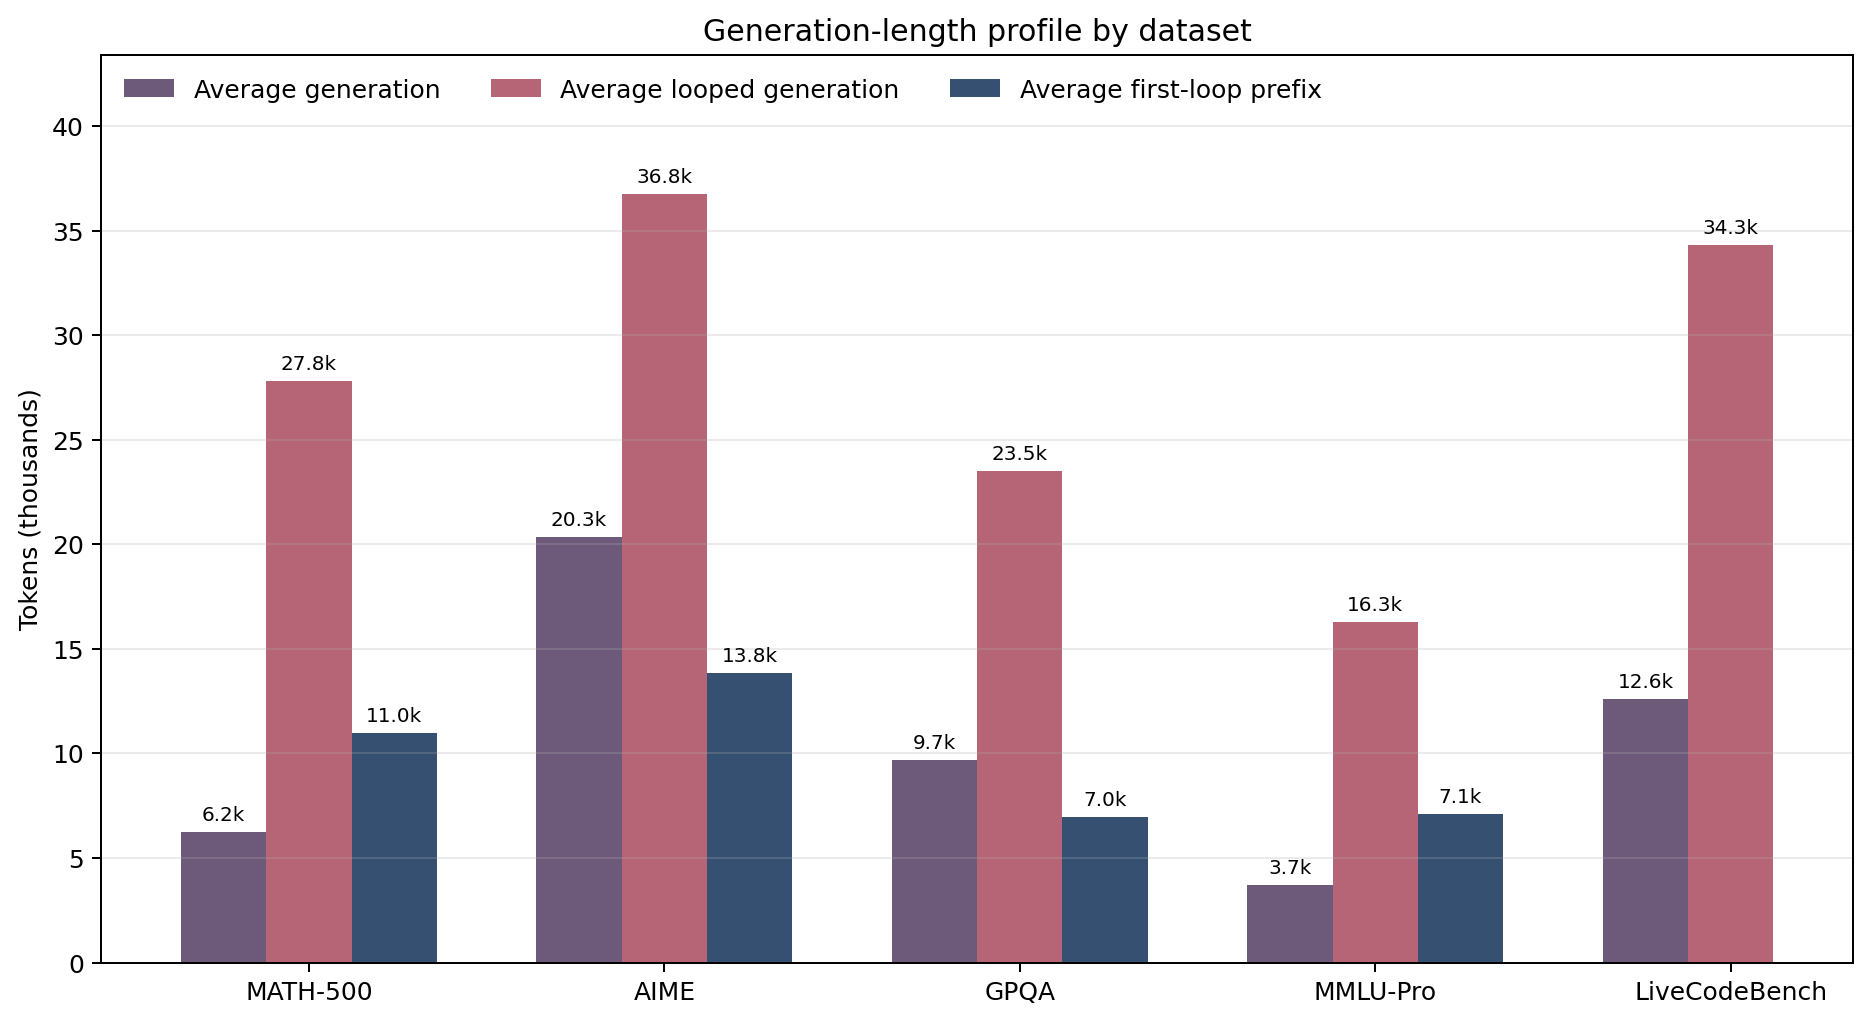
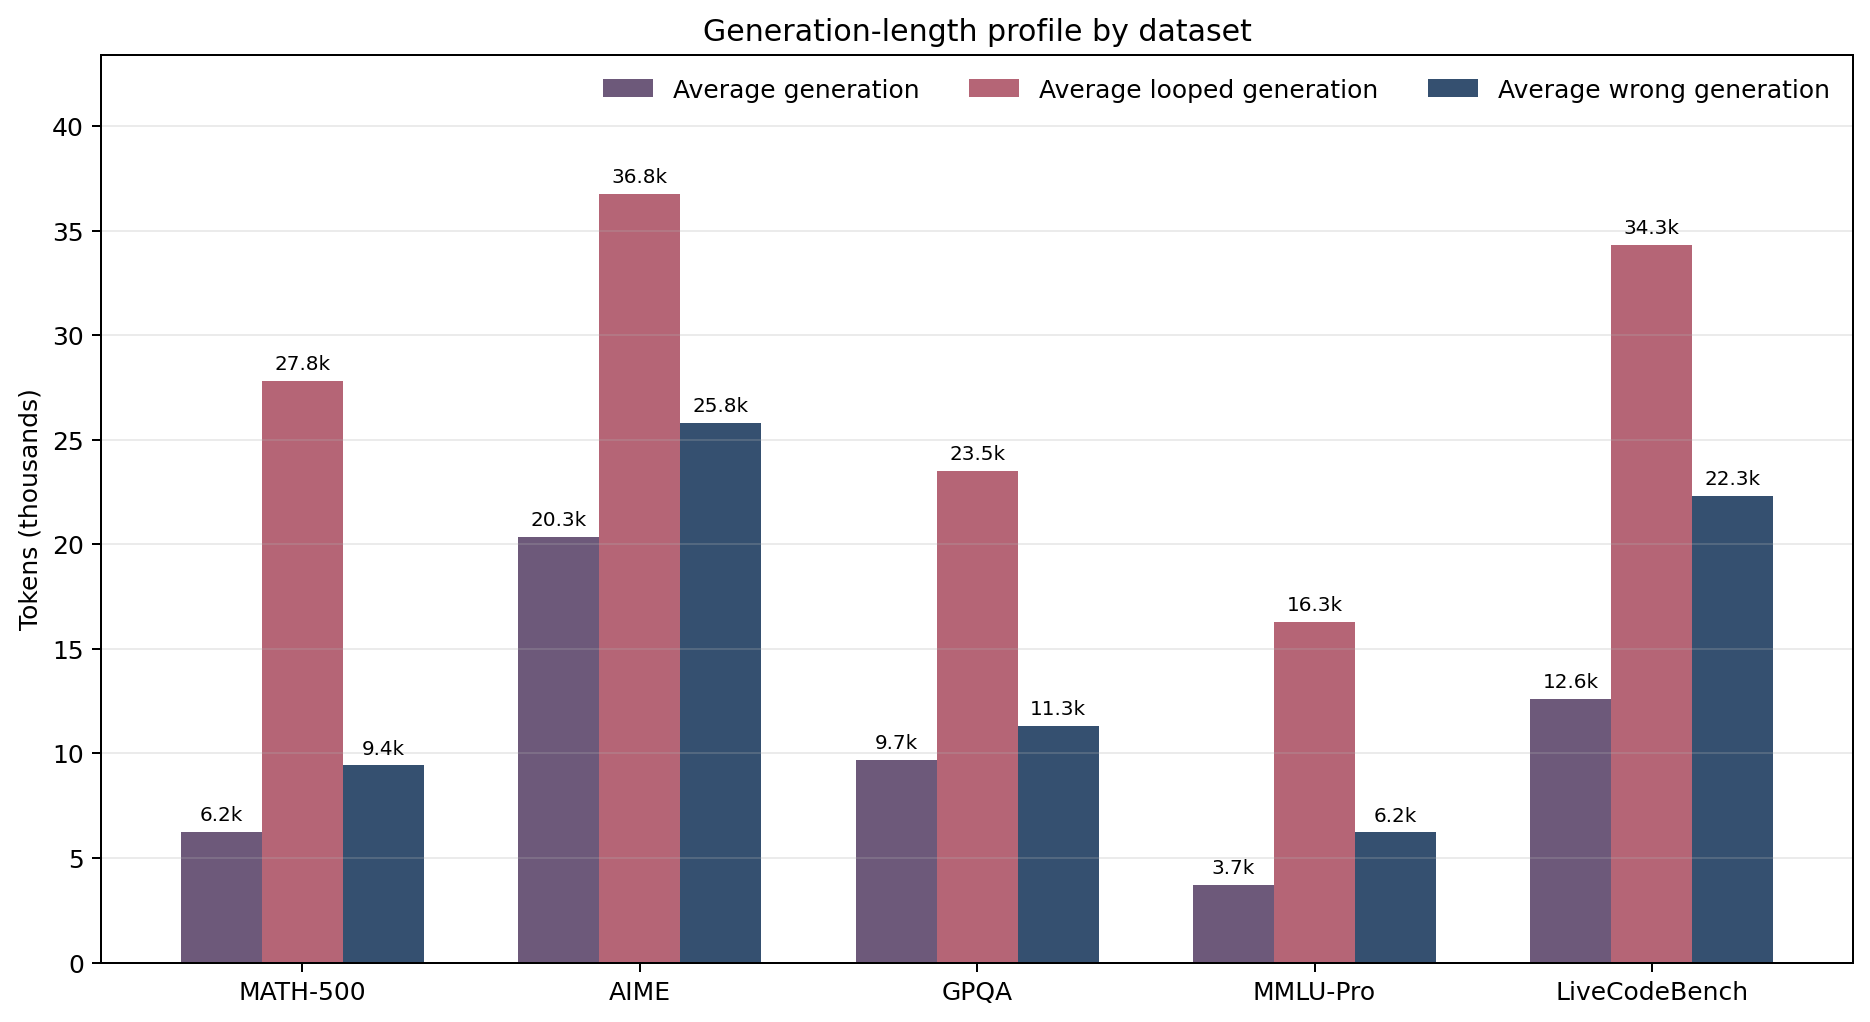
Adjust rollout report length panel

diff --git a/scripts/build_cross_dataset_rollout_report.py b/scripts/build_cross_dataset_rollout_report.py
@@ -586,19 +586,19 @@ def build_length_plot(rows: list[dict[str, Any]], figures_dir: Path) -> Path:
     width = 0.24
     avg_len = [_nan_or_float(row["avg_generation_length"]) / 1000.0 for row in rows]
     avg_loop_len = [_nan_or_float(row["avg_loop_generation_length"]) / 1000.0 for row in rows]
-    avg_prefix = [_nan_or_float(row["avg_first_loop_prefix_length"]) / 1000.0 for row in rows]
+    avg_wrong_len = [_nan_or_float(row["avg_wrong_generation_length"]) / 1000.0 for row in rows]
 
     fig, ax = plt.subplots(figsize=(10.5, 5.8))
     bars1 = ax.bar([i - width for i in x], avg_len, width=width, label="Average generation", color="#6d597a")
     bars2 = ax.bar(x, avg_loop_len, width=width, label="Average looped generation", color="#b56576")
-    bars3 = ax.bar([i + width for i in x], avg_prefix, width=width, label="Average first-loop prefix", color="#355070")
+    bars3 = ax.bar([i + width for i in x], avg_wrong_len, width=width, label="Average wrong generation", color="#355070")
     _annotate_bars(ax, bars1, "k")
     _annotate_bars(ax, bars2, "k")
     _annotate_bars(ax, bars3, "k")
     ax.set_ylabel("Tokens (thousands)")
     ax.set_title("Generation-length profile by dataset")
     ax.set_xticks(x, labels)
-    ax.set_ylim(0, _finite_max(avg_len, avg_loop_len, avg_prefix) * 1.18)
+    ax.set_ylim(0, _finite_max(avg_len, avg_loop_len, avg_wrong_len) * 1.18)
     ax.legend(frameon=False, ncol=3)
     ax.grid(axis="y", alpha=0.25)
     fig.tight_layout()
@@ -768,6 +768,14 @@ def build_key_findings(rows: list[dict[str, Any]]) -> str:
             else row["avg_loop_generation_length"]
         ),
     )
+    longest_wrong = max(
+        rows,
+        key=lambda row: (
+            float("-inf")
+            if row["avg_wrong_generation_length"] is None
+            else row["avg_wrong_generation_length"]
+        ),
+    )
     tightest_overlap = max(
         rows,
         key=lambda row: (
@@ -794,20 +802,9 @@ def build_key_findings(rows: list[dict[str, Any]]) -> str:
             ),
             (
                 f"The longest looped generations also appear on {latex_escape(longest_loop['display_name'])}: "
-                f"{format_float(longest_loop['avg_loop_generation_length'])} tokens on average."
-                + (
-                    " "
-                    + (
-                        f"The first detected loop appears after "
-                        f"{format_float(longest_loop['avg_first_loop_prefix_length'])} tokens on average."
-                    )
-                    if longest_loop["avg_first_loop_prefix_length"] is not None
-                    else (
-                        " The exact average first-loop-prefix length is unavailable in this "
-                        "bundle because that metric could not be recovered from the "
-                        "post-grading LiveCodeBench crash."
-                    )
-                )
+                f"{format_float(longest_loop['avg_loop_generation_length'])} tokens on average. "
+                f"The longest wrong generations appear on {latex_escape(longest_wrong['display_name'])} "
+                f"at {format_float(longest_wrong['avg_wrong_generation_length'])} tokens on average."
             ),
             (
                 f"Prompt-plus-generation max-length termination is almost synonymous with looping on the hardest long-form "
@@ -890,7 +887,7 @@ def build_tex(rows: list[dict[str, Any]], out_dir: Path, report_stem: str) -> Pa
 \setlength{{\parskip}}{{0.6em}}
 
 \title{{Cross-Dataset Rollout Statistics Report for Qwen/Qwen3-1.7B}}
-\author{{Murphy}}
+\author{{}}
 \date{{{latex_escape(bundle_timestamp(rows))}}}
 
 \begin{{document}}
@@ -962,13 +959,13 @@ The JSON payloads also retain the raw event counts for prompts, graded/generated
 \begin{{figure}}[H]
 \centering
 \includegraphics[width=\textwidth]{{{figures["lengths"]}}}
-\caption{{Average generation lengths, average looped-generation lengths, and average first-loop-prefix lengths in thousands of tokens.}}
+\caption{{Average generation lengths, average looped-generation lengths, and average wrong-generation lengths in thousands of tokens.}}
 \end{{figure}}
 
 \section*{{Interpretation}}
 Across the math, science, broad-knowledge, and coding settings, the same pattern repeats: long generation tails are where looping lives. The strongest evidence is in the overlap panel: once a rollout's prompt-plus-generation length reaches \texttt{{max\_model\_len}}, it is often also a detected loop. The converse is weaker but still substantial: in several datasets, a large fraction of looped rollouts also terminate at that full-context ceiling.
 
-The length panel shows that looped generations are substantially longer than the dataset-wide average everywhere in the bundle. The average first-loop-prefix length also varies meaningfully by dataset, which indicates that not every loop is an immediate degeneration: some settings enter the repeated n-gram regime only after a long reasoning or coding prefix.
+The length panel shows that both looped generations and wrong generations are substantially longer than the dataset-wide average everywhere in the bundle. In the harder reasoning and coding settings, wrong rollouts become long well before they are reliably correct, which is consistent with the overall loop-heavy tail behavior in this sweep.
 
 Rollout success under looping is dataset-dependent rather than uniform. Some tasks retain a noticeable fraction of correct answers even inside looped rollouts, which suggests the model can sometimes reach the right answer before it starts repeating. For \texttt{{LiveCodeBench}}, the native benchmark metrics should be read from the separate \texttt{{pass@k}} values rather than from the rollout-success column.
 

diff --git a/outputs/qwen3_1p7b_rollout_stats_v2_temp0p2_gen10/qwen3_1p7b_cross_dataset_rollout_report.tex b/outputs/qwen3_1p7b_rollout_stats_v2_temp0p2_gen10/qwen3_1p7b_cross_dataset_rollout_report.tex
@@ -13,7 +13,7 @@
 \setlength{\parskip}{0.6em}
 
 \title{Cross-Dataset Rollout Statistics Report for Qwen/Qwen3-1.7B}
-\author{Murphy}
+\author{}
 \date{2026-03-16 14:19 UTC}
 
 \begin{document}
@@ -117,7 +117,7 @@ LiveCodeBench release\_v6 & 800 & 8000 & 58.1\% & 15.0\% & 10.8\% \\
 
 \subsection*{Headline observations}
 The largest raw loop rate appears on GPQA Diamond at 16.4\%, while MATH-500 is the most stable dataset in this bundle at 2.9\%.
-The longest looped generations also appear on AIME 2024/2025: 36756.9 tokens on average. The first detected loop appears after 13824.5 tokens on average.
+The longest looped generations also appear on AIME 2024/2025: 36756.9 tokens on average. The longest wrong generations appear on AIME 2024/2025 at 25786.1 tokens on average.
 Prompt-plus-generation max-length termination is almost synonymous with looping on the hardest long-form settings: GPQA Diamond reaches 100.0\% for the max-length-hit loop conditional.
 The most forgiving loop regime is MATH-500, where 32.0\% of looped rollouts still end in a correct answer.
 
@@ -143,13 +143,13 @@ The most forgiving loop regime is MATH-500, where 32.0\% of looped rollouts stil
 \begin{figure}[H]
 \centering
 \includegraphics[width=\textwidth]{figures/cross_dataset_lengths.png}
-\caption{Average generation lengths, average looped-generation lengths, and average first-loop-prefix lengths in thousands of tokens.}
+\caption{Average generation lengths, average looped-generation lengths, and average wrong-generation lengths in thousands of tokens.}
 \end{figure}
 
 \section*{Interpretation}
 Across the math, science, broad-knowledge, and coding settings, the same pattern repeats: long generation tails are where looping lives. The strongest evidence is in the overlap panel: once a rollout's prompt-plus-generation length reaches \texttt{max\_model\_len}, it is often also a detected loop. The converse is weaker but still substantial: in several datasets, a large fraction of looped rollouts also terminate at that full-context ceiling.
 
-The length panel shows that looped generations are substantially longer than the dataset-wide average everywhere in the bundle. The average first-loop-prefix length also varies meaningfully by dataset, which indicates that not every loop is an immediate degeneration: some settings enter the repeated n-gram regime only after a long reasoning or coding prefix.
+The length panel shows that both looped generations and wrong generations are substantially longer than the dataset-wide average everywhere in the bundle. In the harder reasoning and coding settings, wrong rollouts become long well before they are reliably correct, which is consistent with the overall loop-heavy tail behavior in this sweep.
 
 Rollout success under looping is dataset-dependent rather than uniform. Some tasks retain a noticeable fraction of correct answers even inside looped rollouts, which suggests the model can sometimes reach the right answer before it starts repeating. For \texttt{LiveCodeBench}, the native benchmark metrics should be read from the separate \texttt{pass@k} values rather than from the rollout-success column.
 
